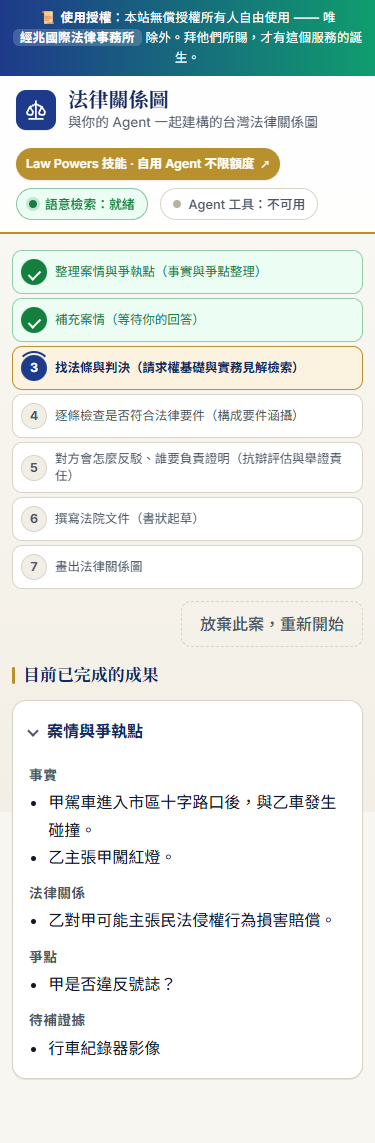
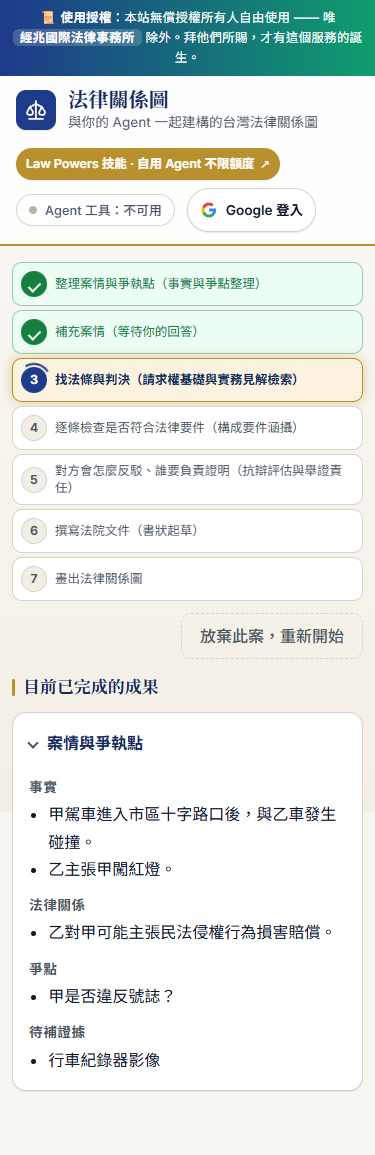
fix(rwd): 手機版隱藏工具檢視器（避免蓋住送出鈕）、登入區觸控高度 44px；e2e 手機略過檢視器測試；新增 outputs 流程診斷腳本

diff --git a/src/main/resources/static/css/app.css b/src/main/resources/static/css/app.css
@@ -187,14 +187,14 @@ label { display: block; }
 /* 右上角 Google 登入區 */
 .auth-slot { display: flex; align-items: center; }
 .login-link {
-  display: inline-flex; align-items: center; gap: 8px; min-height: 32px; padding: 4px 12px;
+  display: inline-flex; align-items: center; gap: 8px; min-height: var(--touch); padding: 4px 12px;
   border-radius: var(--radius-pill); border: 1px solid var(--color-border, #cbd5e1); background: var(--color-surface, #fff);
   color: var(--color-text); font-size: 0.85rem; font-weight: 600; text-decoration: none; white-space: nowrap; box-shadow: var(--shadow-sm);
 }
 .login-link:hover { text-decoration: none; filter: brightness(0.98); }
 .login-link .g-mark { width: 18px; height: 18px; flex: 0 0 auto; }
 .login-link small { font-weight: 400; color: var(--color-text-sub); }
-.auth-user { display: inline-flex; align-items: center; gap: 8px; min-height: 32px; padding: 2px 6px 2px 2px; border-radius: var(--radius-pill); background: var(--color-surface, #fff); box-shadow: var(--shadow-sm); }
+.auth-user { display: inline-flex; align-items: center; gap: 8px; min-height: var(--touch); padding: 2px 6px 2px 2px; border-radius: var(--radius-pill); background: var(--color-surface, #fff); box-shadow: var(--shadow-sm); }
 .avatar { width: 28px; height: 28px; border-radius: 50%; object-fit: cover; }
 .avatar-fallback { display: inline-flex; align-items: center; justify-content: center; background: var(--color-primary); color: #fff; font-weight: 700; font-size: 0.85rem; }
 .auth-name { font-size: 0.85rem; font-weight: 600; max-width: 10em; overflow: hidden; text-overflow: ellipsis; white-space: nowrap; }
@@ -468,8 +468,8 @@ button svg { width: 18px; height: 18px; flex: 0 0 auto; }
   .tab { flex: 1 0 auto; }
   /* 手機：折疊時只佔按鈕寬度（少遮內容），展開後才滿版 */
   .inspector { right: var(--space-2); bottom: var(--space-2); width: auto; max-width: calc(100vw - 2 * var(--space-2)); padding: var(--space-1); }
-  /* 手機折疊時縮成小膠囊，少遮住案情輸入框；展開後仍滿版 */
-  .inspector.collapsed #insp-toggle { font-size: 0.78rem; padding: 4px 10px; min-height: 36px; }
+  /* 手機：工具檢視器整個隱藏。它是給 Agent host 看的唯讀清單，在手機上只會蓋住全寬的送出鈕（Playwright 也會因此點不到）。 */
+  .inspector { display: none; }
   .inspector:not(.collapsed) { left: var(--space-2); }
   .el { grid-template-columns: 1fr; }
   .el-badge { grid-row: auto; justify-self: start; }
